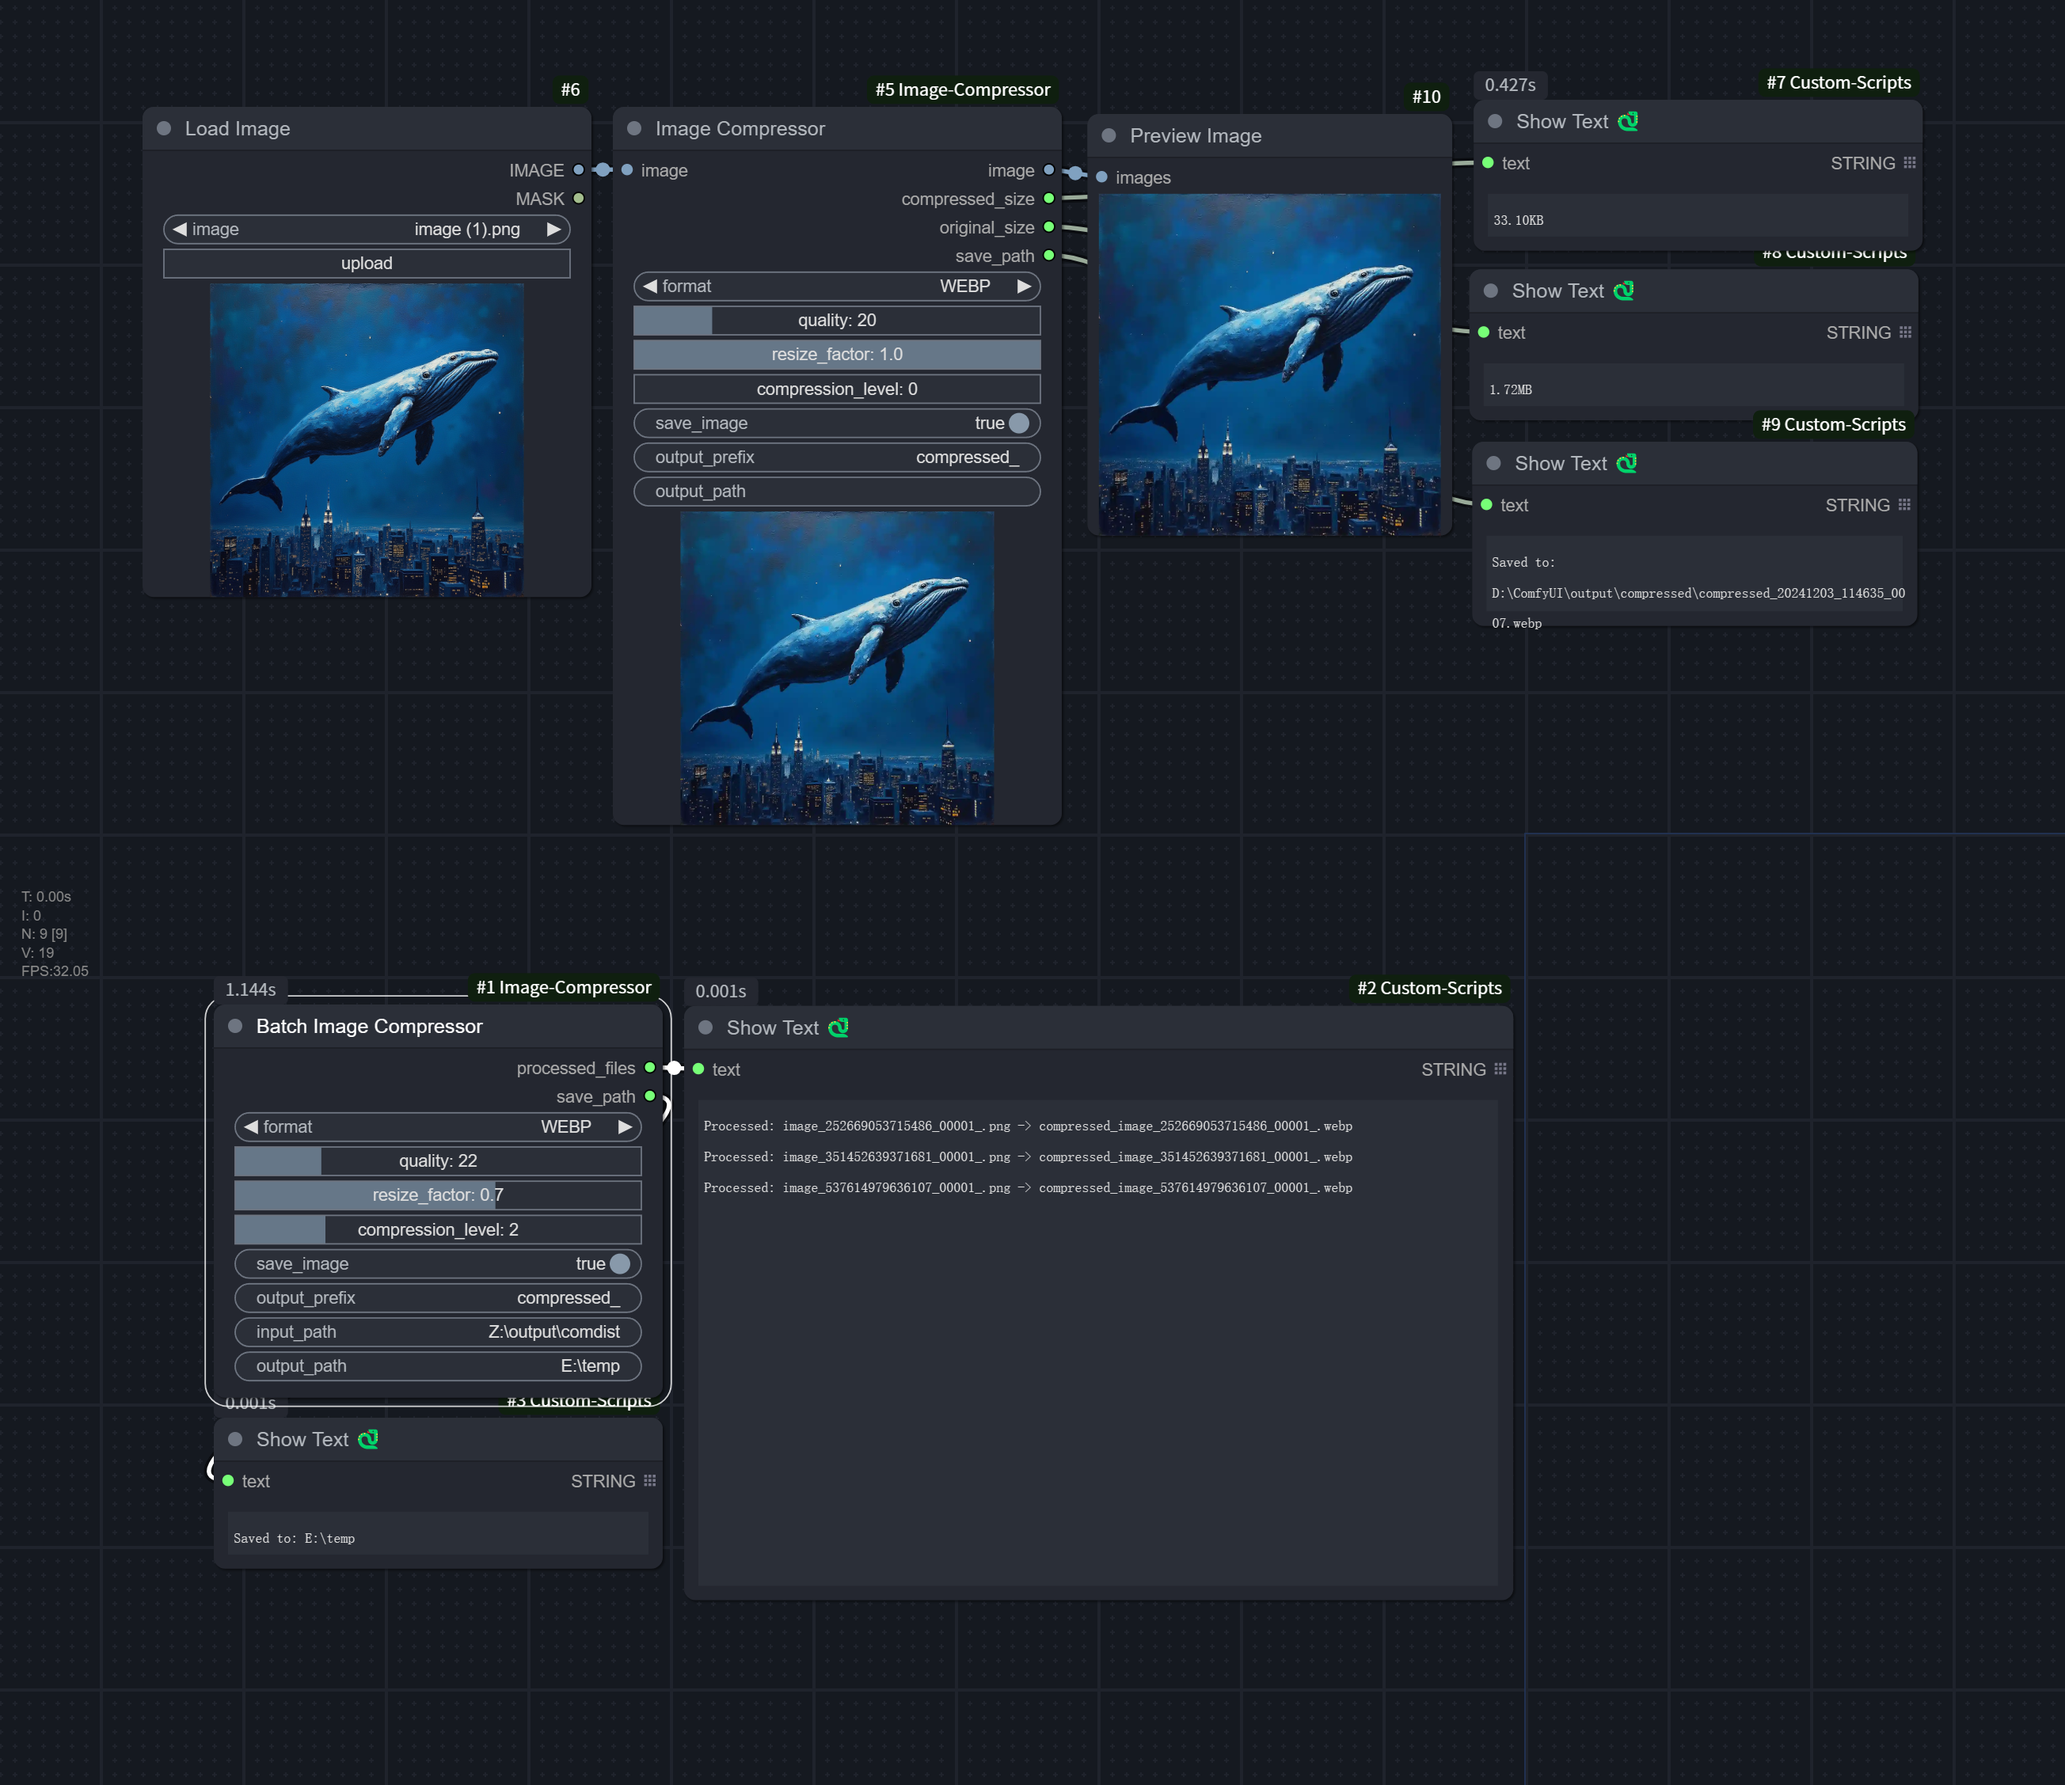
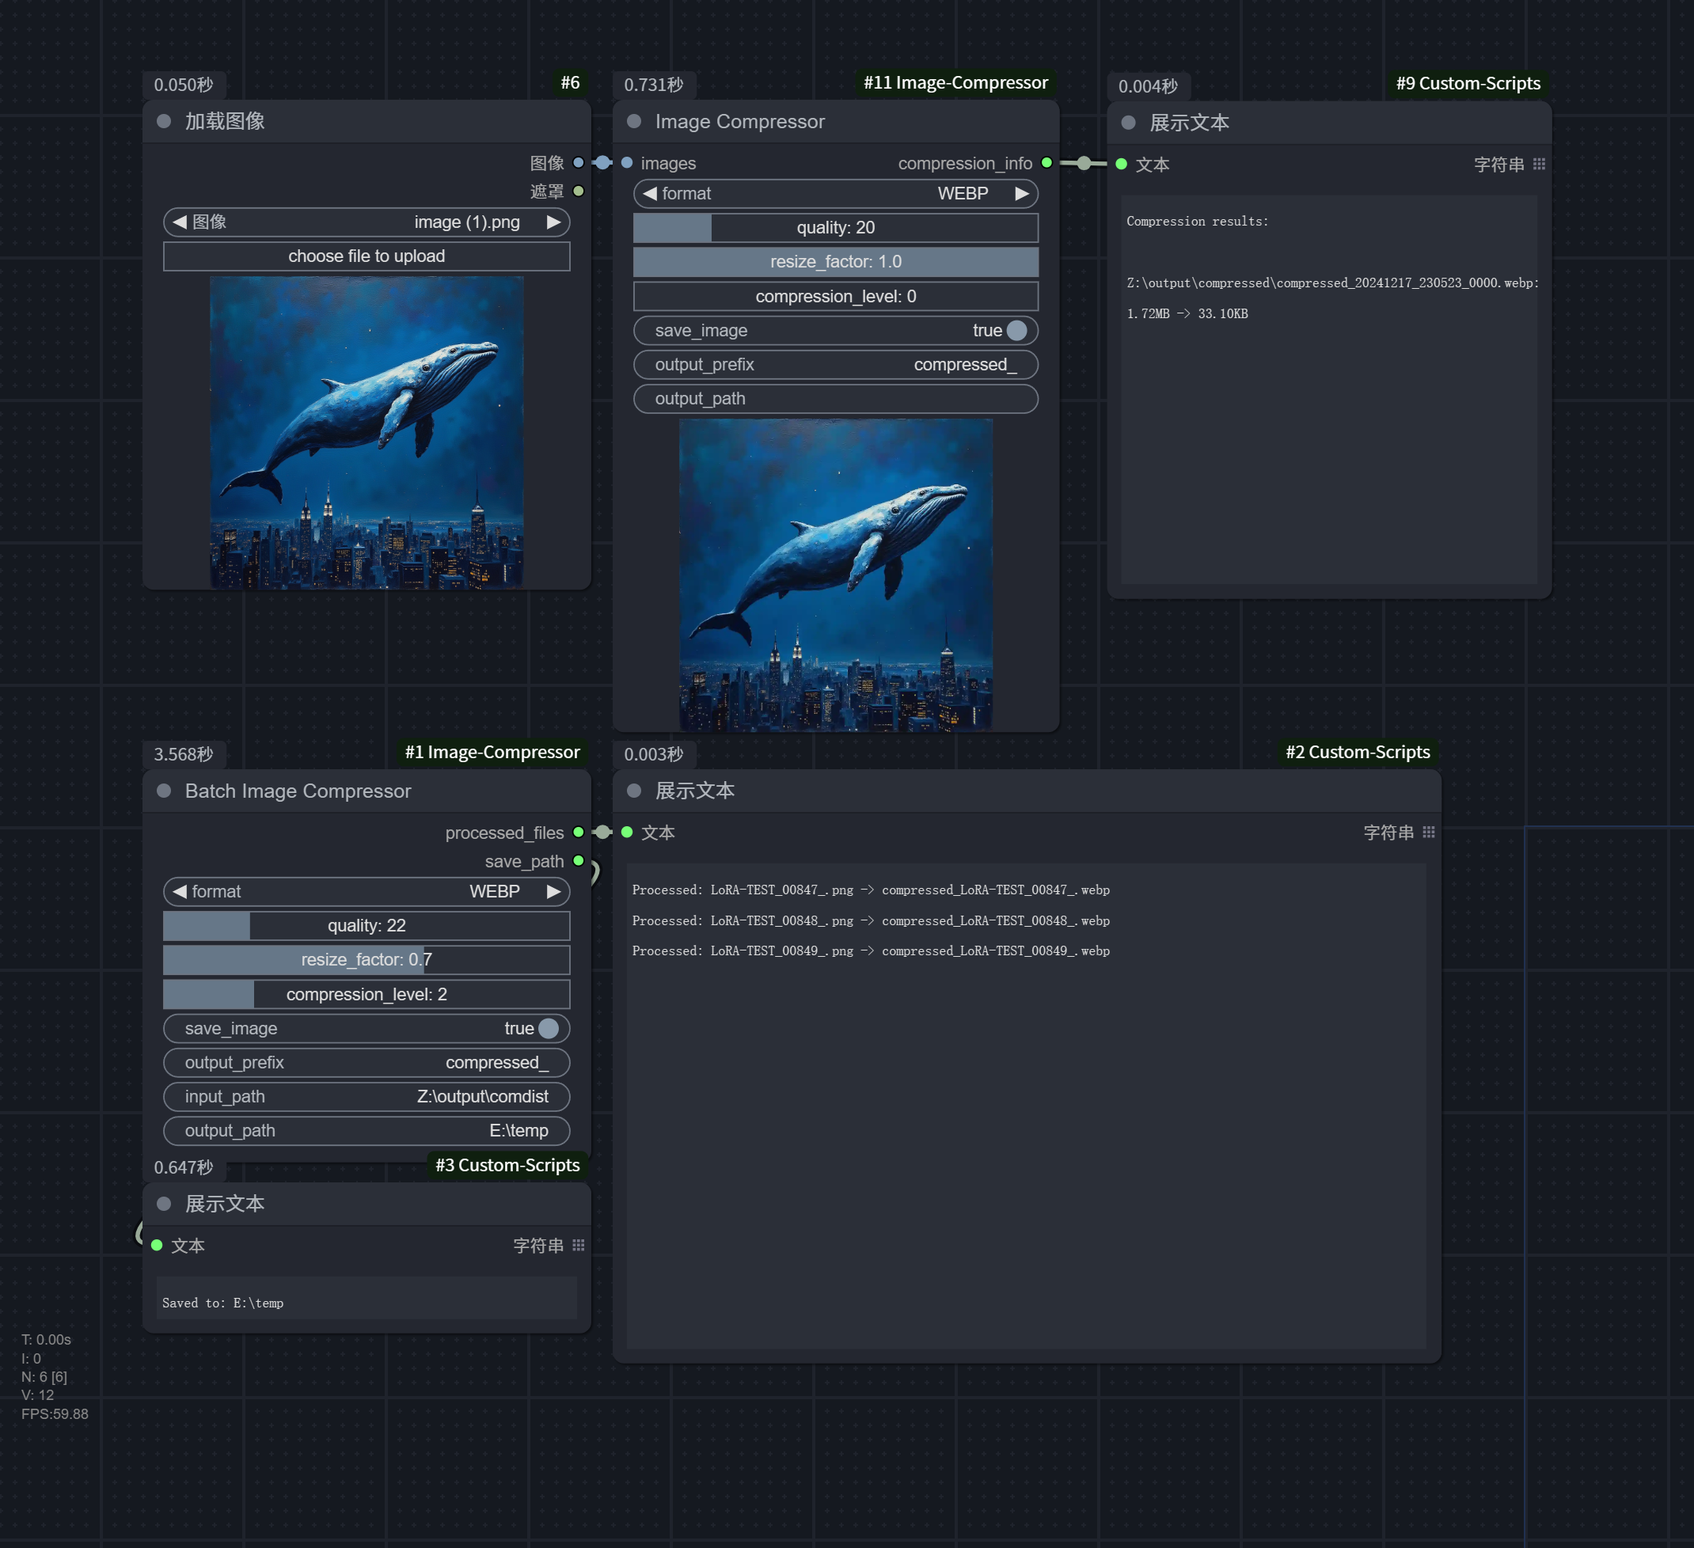
README

diff --git a/README_en.md b/README_en.md
@@ -15,6 +15,9 @@ A ComfyUI custom node for image compression, supporting multiple formats and adj
 - Support image resizing
 - Custom output path and filename prefix
 - Display file size before and after compression
+- Support batch image processing
+- Automatic transparency handling
+- Smart handling of various input formats (RGB/RGBA)
 
 ## Installation
 
@@ -29,16 +32,21 @@ A ComfyUI custom node for image compression, supporting multiple formats and adj
 ### Image Compressor Node
 
 #### Input Parameters
-- **image**: Input image
+- **images**: Input image(s) (supports single or batch images)
+- **format**: Output format selection (PNG/WEBP/JPEG)
+- **quality**: Compression quality (1-100)
+- **resize_factor**: Size adjustment factor (0.1-1.0)
+- **compression_level**: Compression level (0-9, PNG only)
 - **save_image**: Whether to save the compressed image file (Default: Yes)
 - **output_prefix**: Output filename prefix (Default: compressed_)
 - **output_path**: Custom output path (Optional, defaults to ComfyUI's output/compressed directory)
 
 #### Output Information
-- Compressed image
-- Compressed file size
-- Original file size
-- Save path (if saving is enabled)
+- **compression_info**: Compression information string, including:
+  - Compressed file size
+  - Original file size
+  - Save path (if saving is enabled)
+  - Compression ratio information
 
 ### Batch Image Compressor Node
 
@@ -47,6 +55,10 @@ A ComfyUI custom node for image compression, supporting multiple formats and adj
   - Processes all image files in the directory
   - Automatically recognizes PNG, JPEG, WEBP formats
   - Recursively processes images in subdirectories
+- **format**: Output format selection (PNG/WEBP/JPEG)
+- **quality**: Compression quality (1-100)
+- **resize_factor**: Size adjustment factor (0.1-1.0)
+- **compression_level**: Compression level (0-9, PNG only)
 - **save_image**: Whether to save the compressed image files (Default: Yes)
 - **output_prefix**: Output filename prefix (Default: compressed_)
 - **output_path**: Custom output path (Optional)
@@ -62,16 +74,19 @@ A ComfyUI custom node for image compression, supporting multiple formats and adj
   - Pros: Lossless compression, supports transparency
   - Cons: Relatively larger file size
   - Use cases: Icons, screenshots, images requiring perfect quality
+  - Features: Uses compression_level parameter to control compression strength
 
 - **WEBP**: Modern image format developed by Google
-  - Pros: Good compression ratio, supports both lossy and lossless compression
+  - Pros: Good compression ratio, supports both lossy and lossless compression, transparency support
   - Cons: Compatibility might not be as good as PNG and JPEG
   - Use cases: Web images, scenarios requiring balance between quality and size
+  - Features: Supports both quality and alpha_quality parameters
 
 - **JPEG**: Common lossy compression format
   - Pros: High compression ratio, small file size
-  - Cons: Lossy compression, no transparency support
+  - Cons: Lossy compression, no transparency support (transparent areas converted to white background)
   - Use cases: Photos, images not requiring transparency
+  - Features: Uses quality parameter and optimized subsampling settings
 
 #### Quality Control
 - **quality**: Compression quality (1-100, Default: 85)

diff --git a/README.md b/README.md
@@ -15,6 +15,9 @@
 - 支持图像尺寸调整
 - 自定义输出路径和文件名前缀
 - 显示压缩前后的文件大小
+- 支持批量图像处理
+- 自动处理透明通道
+- 智能处理多种输入格式（RGB/RGBA）
 
 ## 安装方法
 
@@ -29,16 +32,21 @@
 ### 单图压缩节点 (Image Compressor)
 
 #### 输入参数
-- **image**: 输入图像
+- **images**: 输入图像（支持单张或批量图像）
+- **format**: 输出格式选择（PNG/WEBP/JPEG）
+- **quality**: 压缩质量（1-100）
+- **resize_factor**: 尺寸调整因子（0.1-1.0）
+- **compression_level**: 压缩级别（0-9，仅PNG格式有效）
 - **save_image**: 是否保存压缩后的图像文件（默认：是）
 - **output_prefix**: 输出文件名前缀（默认：compressed_）
 - **output_path**: 自定义输出路径（可选，默认使用 ComfyUI 的 output/compressed 目录）
 
 #### 输出信息
-- 压缩后的图像
-- 压缩后的文件大小
-- 原始文件大小
-- 保存路径（如果启用了保存）
+- **compression_info**: 压缩信息字符串，包含:
+  - 压缩后的文件大小
+  - 原始文件大小
+  - 保存路径（如果启用了保存）
+  - 压缩比率信息
 
 ### 批量压缩节点 (Batch Image Compressor)
 
@@ -62,16 +70,19 @@
   - 优点：无损压缩，支持透明度
   - 缺点：文件体积相对较大
   - 适用场景：图标、截图、需要保持完美质量的图像
+  - 特点：使用compression_level参数控制压缩强度
 
 - **WEBP**: Google开发的现代图像格式
-  - 优点：较好的压缩率，支持有损和无损压缩
+  - 优点：较好的压缩率，支持有损和无损压缩，支持透明度
   - 缺点：兼容性可能不如PNG和JPEG
   - 适用场景：网页图像、需要在质量和体积间平衡的场景
+  - 特点：同时支持quality和alpha_quality参数
 
 - **JPEG**: 常用的有损压缩格式
   - 优点：高压缩率，文件体积小
-  - 缺点：有损压缩，不支持透明度
+  - 缺点：有损压缩，不支持透明度（透明部分会被转换为白色背景）
   - 适用场景：照片、不需要透明度的图像
+  - 特点：使用quality参数和优化的子采样设置
 
 #### 质量控制
 - **quality**: 压缩质量（1-100，默认：85）
